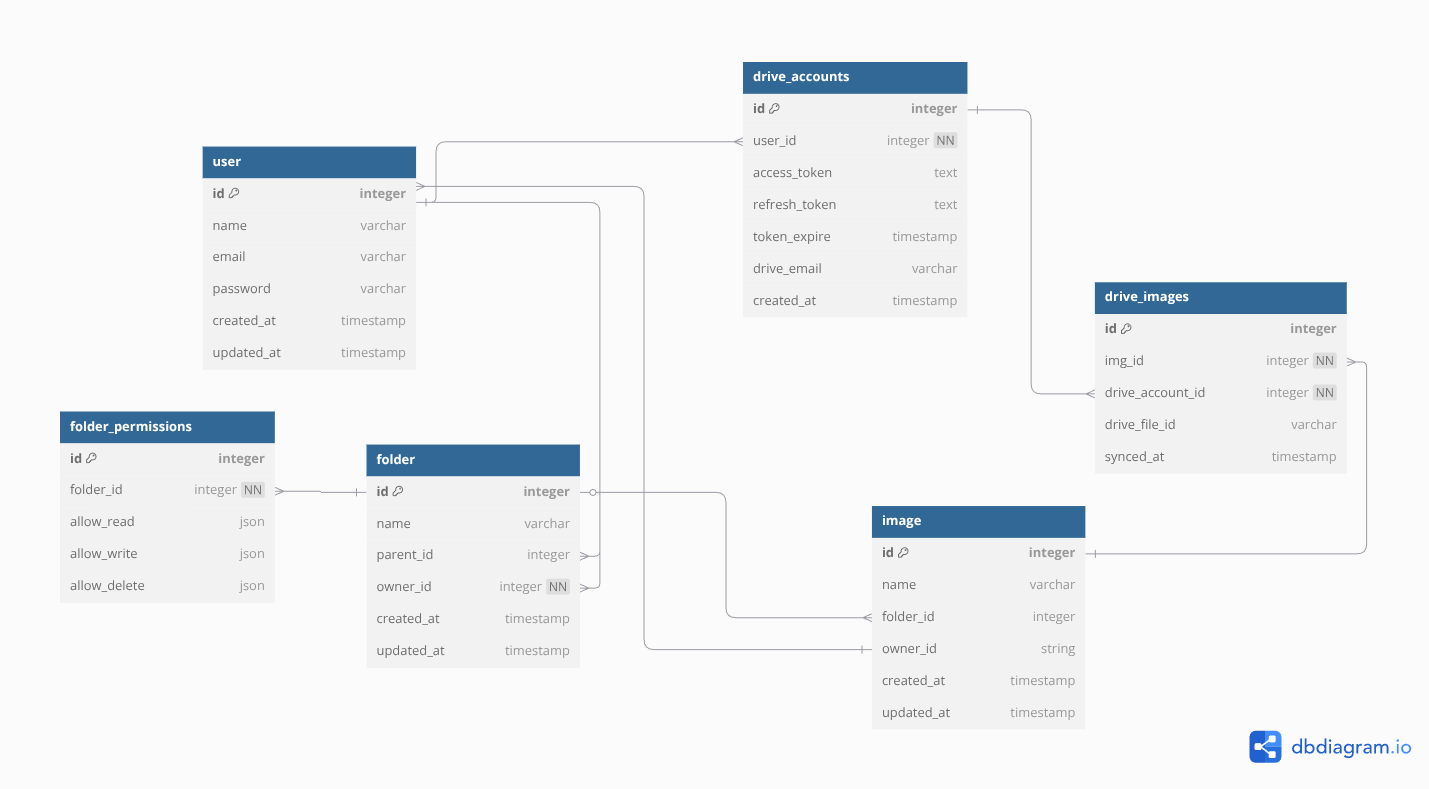
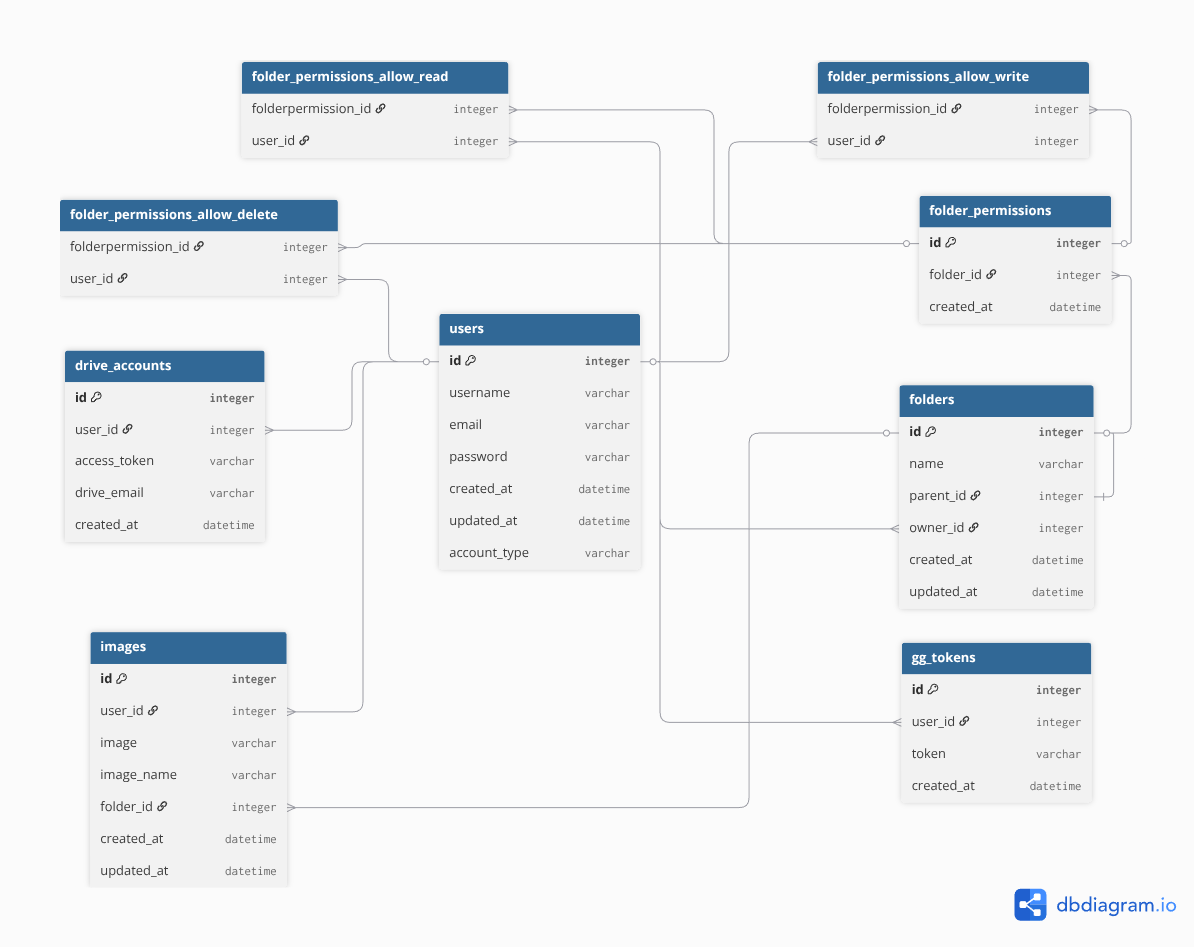
folder permission

diff --git a/applications/my_app/views.py b/applications/my_app/views.py
@@ -3,7 +3,7 @@ from django.shortcuts import render
 import requests
 from rest_framework.decorators import api_view
 from applications.my_app.serializers import RegisterSerializer, LoginSerializer, UserSerializer, FolderSerializer
-from applications.my_app.models import User,DriveAccount, Image, Folder
+from applications.my_app.models import User,DriveAccount, Image, Folder, FolderPermission
 from applications.commons.utils import check_password
 from applications.my_app.token import AuthenticationToken
 from applications.my_app.decorator import auth_required
@@ -30,7 +30,6 @@ class GoogleLogin(SocialLoginView):
 # /auth/register
 @api_view(['POST'])
 def api_register(request):
-    
     serializer = RegisterSerializer(data=request.data)
     if serializer.is_valid():
         serializer.save()
@@ -295,3 +294,74 @@ def api_get_images(request, user_id, folder_id):
     return Response({"images": image_list}, status=200)
 
 
+# {
+#     "allow_read": [],
+#     "allow_write": [],
+#     "allow_delete": [],
+# }
+@api_view(['POST'])
+def api_change_folder_permission(request):
+    
+    folder_id = request.data.get('folder_id')
+    user_id = request.data.get('user_id')
+    
+    # check if folder exists
+    folder = Folder.objects.filter(id=folder_id).first()
+    if not folder:
+        return Response({"error": "Folder not found"}, status=404)
+    # check if user exists and is owner of folder
+    user = User.objects.filter(id=user_id).first()
+    if not user:
+        return Response({"error": "User not found"}, status=404)
+    if folder.owner != user:
+        return Response({"error": "User is not the owner of the folder"}, status=403)
+    
+    folder_permission= FolderPermission.objects.get(folder=folder.id)
+    print("Folder permission:", folder_permission)
+    
+    # take out list
+    allow_read_email = request.data.get('allow_read', [])
+    allow_write_email = request.data.get('allow_write', [])
+    allow_delete_email = request.data.get('allow_delete', [])
+    
+    res = {
+        "message": "Folder permissions updated successfully",
+        "folder_id": folder.id
+    }
+    allow_read_users = User.objects.filter(email__in=allow_read_email)
+    allow_write_users = User.objects.filter(email__in=allow_write_email)
+    allow_delete_users = User.objects.filter(email__in=allow_delete_email)
+    folder_permission.allow_read.set(allow_read_users)  
+    folder_permission.allow_write.set(allow_write_users)
+    folder_permission.allow_delete.set(allow_delete_users)
+    # res.update({"allow_read": [user.email for user in allow_read_users]})
+    # res.update({"allow_write": [user.email for user in allow_write_users]})
+    # res.update({"allow_delete": [user.email for user in allow_delete_users]})
+    
+    
+    folder_permission.save()
+
+    return Response(res, status=200)
+
+@api_view(['GET'])
+def api_home_page(request, user_id):
+    """
+    API để trả về trang chủ
+    """
+    print ("Getting home page for user:", user_id)
+    user = User.objects.filter(id=user_id).first()
+    if not user:
+        return Response({"error": "User not found"}, status=404)
+    
+    folders = Folder.objects.filter(owner=user)
+    # images = Image.objects.filter(user=user)
+    
+    folders_ids = [folder.id for folder in folders]
+    # images_ids = [image.id for image in images]
+    
+    context = {
+        'user_id': user_id,
+        'folders': folders_ids
+    }
+    
+    return Response(context, status=200)

diff --git a/applications/my_app/models.py b/applications/my_app/models.py
@@ -68,34 +68,17 @@ class Image(models.Model):
     def __str__(self):
         return f"{self.image.name} in {self.folder.name if self.folder else 'No Folder'}, uploaded by {self.user.username}"
 
-# //FolderPermission
-# ID
-# FolderID (OneToOne to Folder)
-# AllowRead [user_id, user_id, ....]
-# AllowWrite [user_id, user_id, ....]
-# AllowDelete [user_id, user_id, ....]
 
-# class FolderPermission(models.Model):
-#     folder = models.OneToOneField(Folder, on_delete=models.CASCADE, related_name='permission')
-#     allow_read = models.ManyToManyField(User, related_name='read_permissions', blank=True)
-#     allow_write = models.ManyToManyField(User, related_name='write_permissions', blank=True)
-#     allow_delete = models.ManyToManyField(User, related_name='delete_permissions', blank=True)
-#     created_at = models.DateTimeField(auto_now_add=True)
+class FolderPermission(models.Model):
+    folder = models.OneToOneField(Folder, on_delete=models.CASCADE, related_name='permission')
+    allow_read = models.ManyToManyField(User, related_name='read_permissions', blank=True)
+    allow_write = models.ManyToManyField(User, related_name='write_permissions', blank=True)
+    allow_delete = models.ManyToManyField(User, related_name='delete_permissions', blank=True)
+    created_at = models.DateTimeField(auto_now_add=True)
 
-#     def __str__(self):
-#         return f"Permissions for {self.folder.name}"
+    def __str__(self):
+        return f"Permissions for {self.folder.name}"
 
-
-# // DriveAccount
-# DriveAccount
-# UserID (FK to User)
-# AccessToken
-# RefreshToken
-# token_expire
-# CreatedAt
-# drive_email
-
-# 1 User can have multiple DriveAccounts (e.g. for different Google accounts)
 
 class DriveAccount(models.Model):
     user = models.ForeignKey(User, on_delete=models.CASCADE, related_name='drive_accounts')
@@ -105,21 +88,3 @@ class DriveAccount(models.Model):
 
     def __str__(self):
         return f"Drive Account for {self.user.username} ({self.drive_email})"
-
-# # // DriveImage
-# # DriveImage
-# # img_id (FK to Image)
-
-# # drive_account_id (FK to DriveAccount)
-# # drive_file_id (Google Drive file ID)
-
-# # synced_at datetime
-
-# class DriveImage(models.Model):
-#     image = models.ForeignKey(Image, on_delete=models.CASCADE, related_name='drive_images')
-#     drive_account = models.ForeignKey(DriveAccount, on_delete=models.CASCADE, related_name='drive_images')
-#     drive_file_id = models.CharField(max_length=255)
-#     synced_at = models.DateTimeField(auto_now=True)
-
-#     def __str__(self):
-#         return f"Drive Image {self.image.name} for {self.drive_account.drive_email}"

diff --git a/applications/my_app/serializers.py b/applications/my_app/serializers.py
@@ -1,7 +1,7 @@
 
 
 from rest_framework import serializers
-from .models import User, Image, Folder, GGToken, Folder
+from .models import User, Image, Folder, GGToken, Folder, FolderPermission
 from applications.commons.utils import hash_password
 
 
@@ -100,6 +100,30 @@ class FolderSerializer(serializers.ModelSerializer):
     class Meta:
         model = Folder
         fields = ['id', 'name', 'parent', 'owner', 'created_at', 'updated_at']
+    
+    def create(self, validated_data):
+        parent = validated_data.get('parent')
+        if parent and not Folder.objects.filter(id=parent.id).exists():
+            raise serializers.ValidationError("Parent folder does not exist.")
+        
+        folder = Folder(
+            name=validated_data['name'],
+            parent=parent,
+            owner=validated_data['owner']
+        )
+        folder.save()
+        
+        # create folderPermission for the owner
+        folder_permission = FolderPermission.objects.create(folder=folder)
+        # Set many-to-many relationships
+        owner = validated_data['owner']
+        folder_permission.allow_read.set([owner])
+        folder_permission.allow_write.set([owner])
+        folder_permission.allow_delete.set([owner])
+        folder_permission.save()
+        
+        
+        return folder
     
     def to_representation(self, instance):
         return {

diff --git a/applications/my_app/admin.py b/applications/my_app/admin.py
@@ -1,6 +1,6 @@
 from django.contrib import admin
 
-from .models import User, Folder, Image, GGToken, DriveAccount
+from .models import User, Folder, Image, GGToken, DriveAccount, FolderPermission
 from django.utils.safestring import mark_safe
 from django.urls import reverse
 # Register your models here.
@@ -52,6 +52,15 @@ class ImageAdmin(admin.ModelAdmin):
     ordering = ('-created_at',)
     list_filter = ('folder',)
     
+@admin.register(FolderPermission)
+class FolderPermissionAdmin(admin.ModelAdmin):
+    list_display = ('folder', 'created_at')
+    search_fields = ('folder__name',)
+    ordering = ('-created_at',)
+    
+    def folder(self, obj):
+        return obj.folder.name if obj.folder else "No Folder"
+    folder.short_description = "Folder Name"
     
 
 
@@ -73,3 +82,4 @@ class DriveAccountAdmin(admin.ModelAdmin):
     def drive_email(self, obj):
         return obj.user.email if obj.user else "No User"
     drive_email.short_description = "Drive Email"
+    

diff --git a/applications/my_app/urls.py b/applications/my_app/urls.py
@@ -27,6 +27,7 @@ urlpatterns = [
     
     # folder
     path('folder/create/', views.api_create_folder, name='create_folder'),
+    path('folder/change_permission/', views.api_change_folder_permission, name='change_folder_permission'),
     
     
 
@@ -39,5 +40,8 @@ urlpatterns = [
     path('sync/img/', views.api_sync_img, name='sync_img'),
     path('upload/img/', views.api_upload_img, name='upload_img'),
     
+    
+    # homepage
+    path('home/<int:user_id>', views.api_home_page, name='home'),
     
 ]
